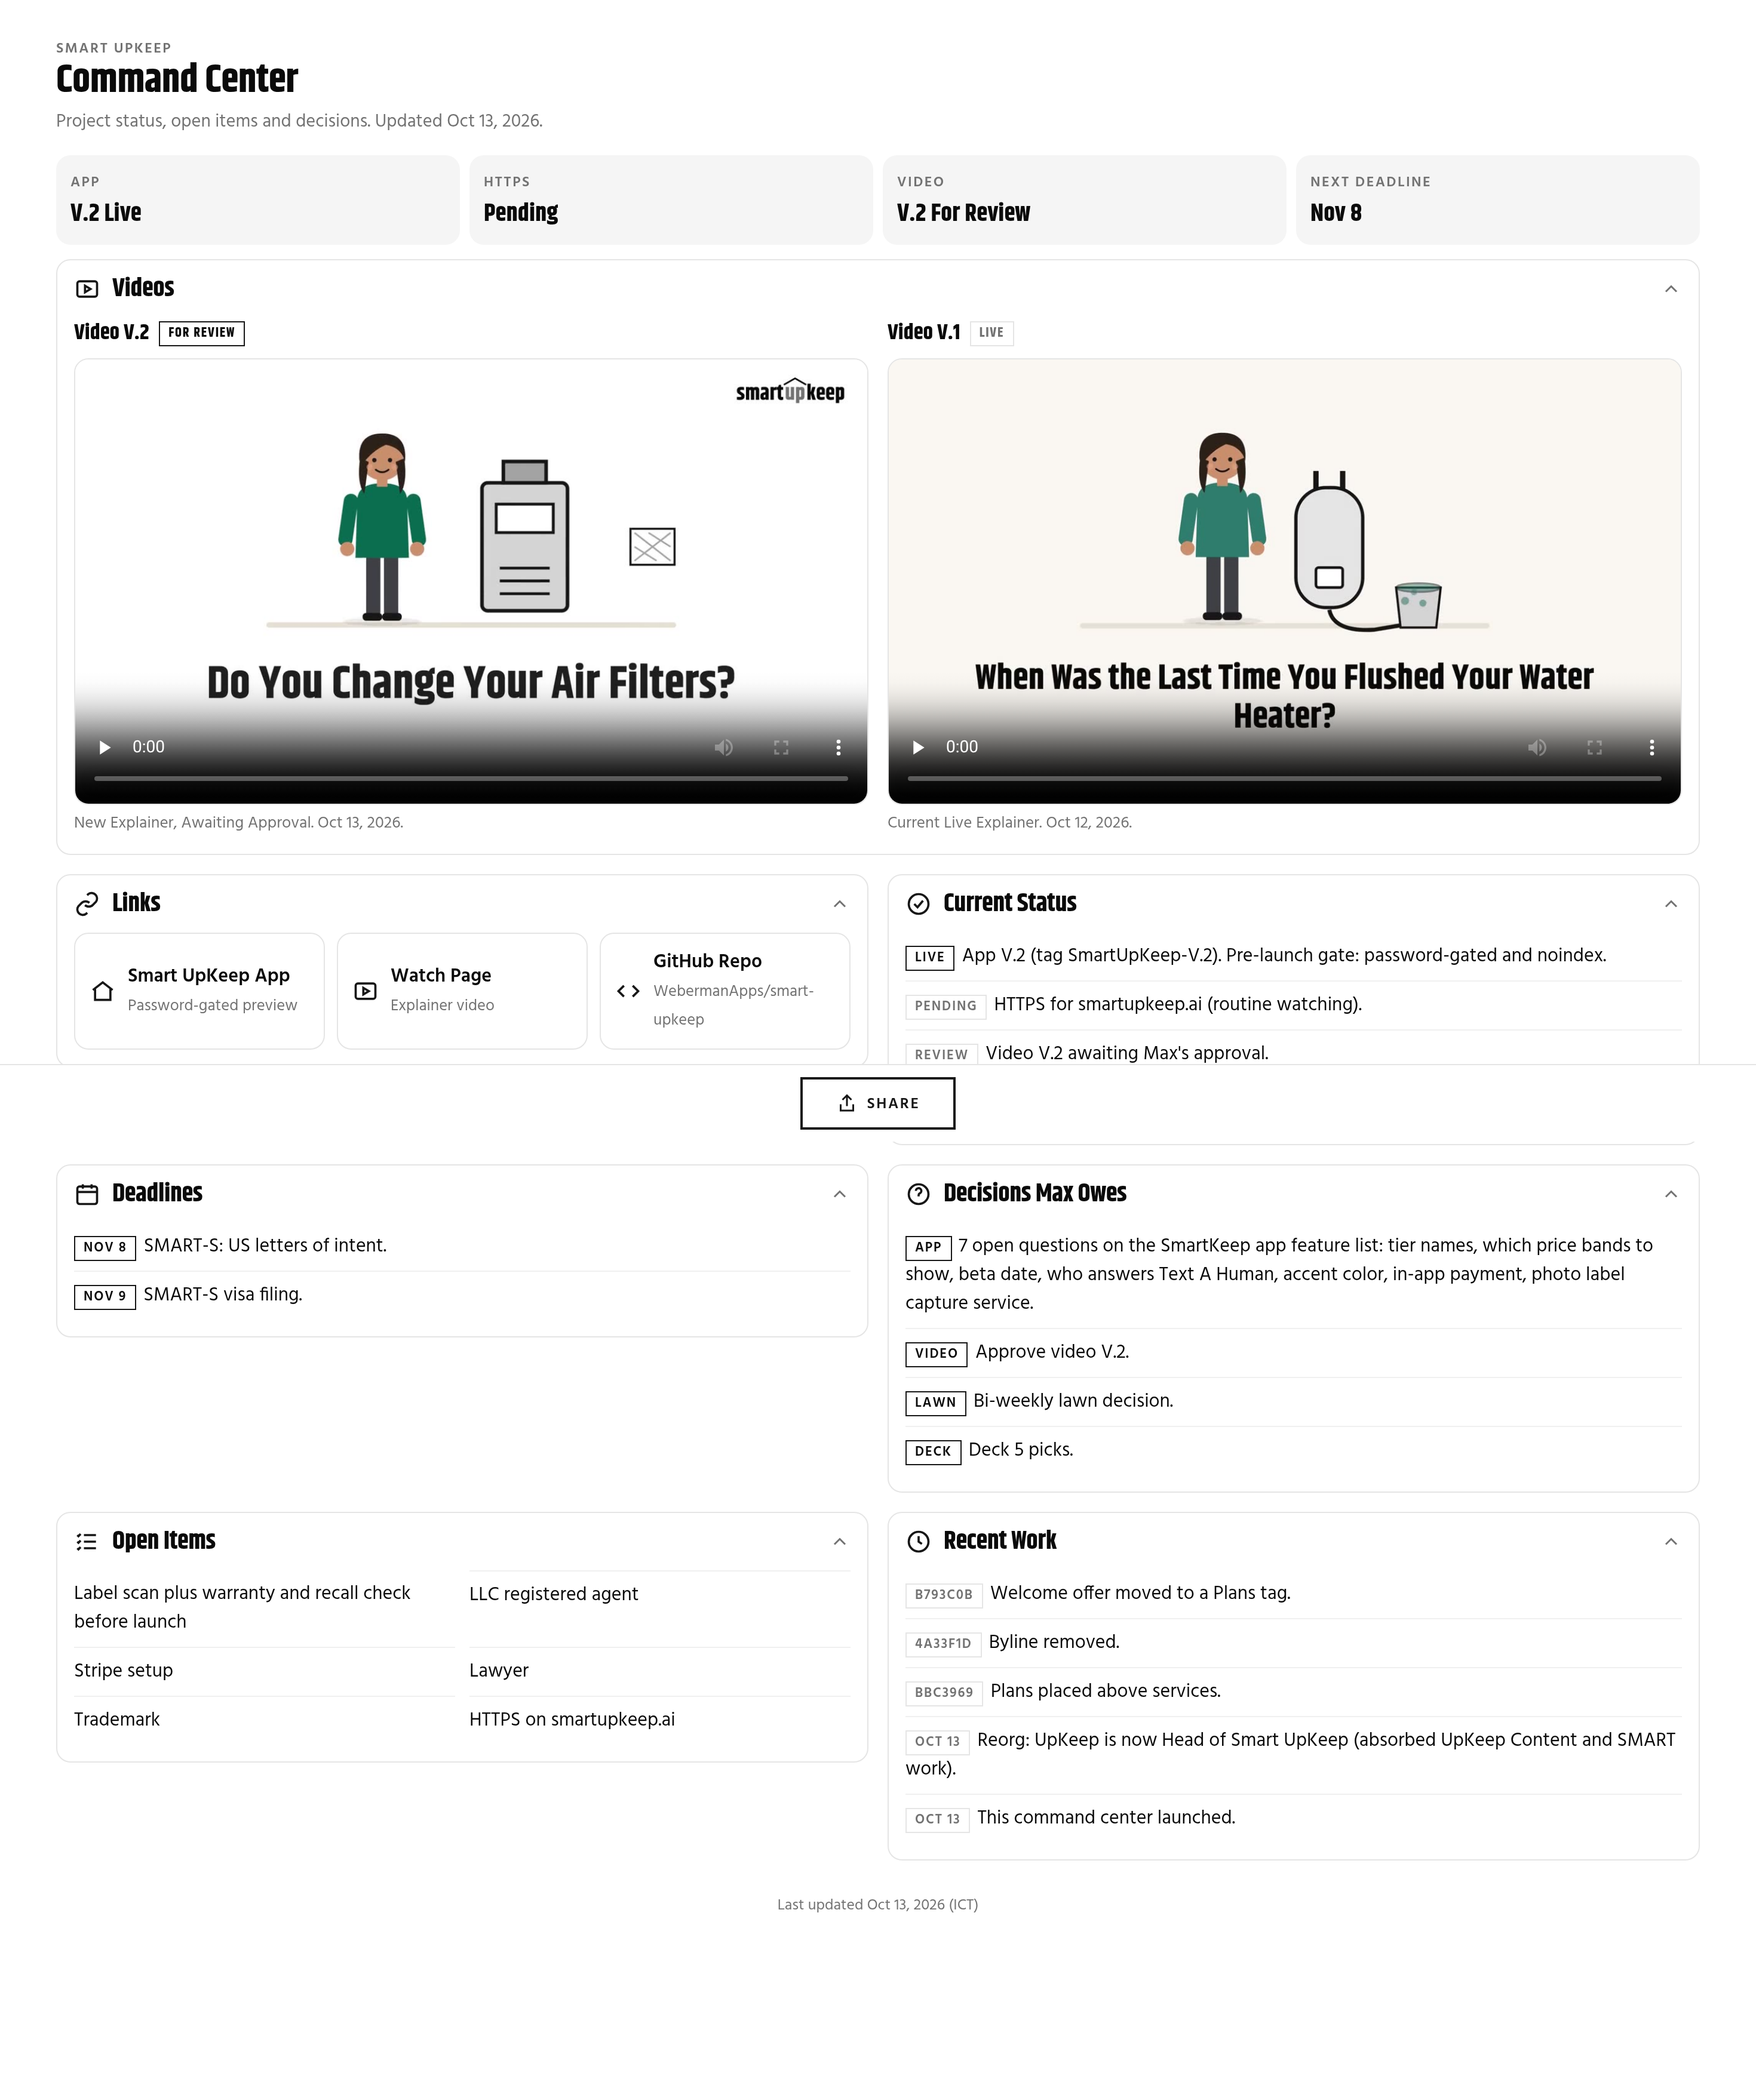
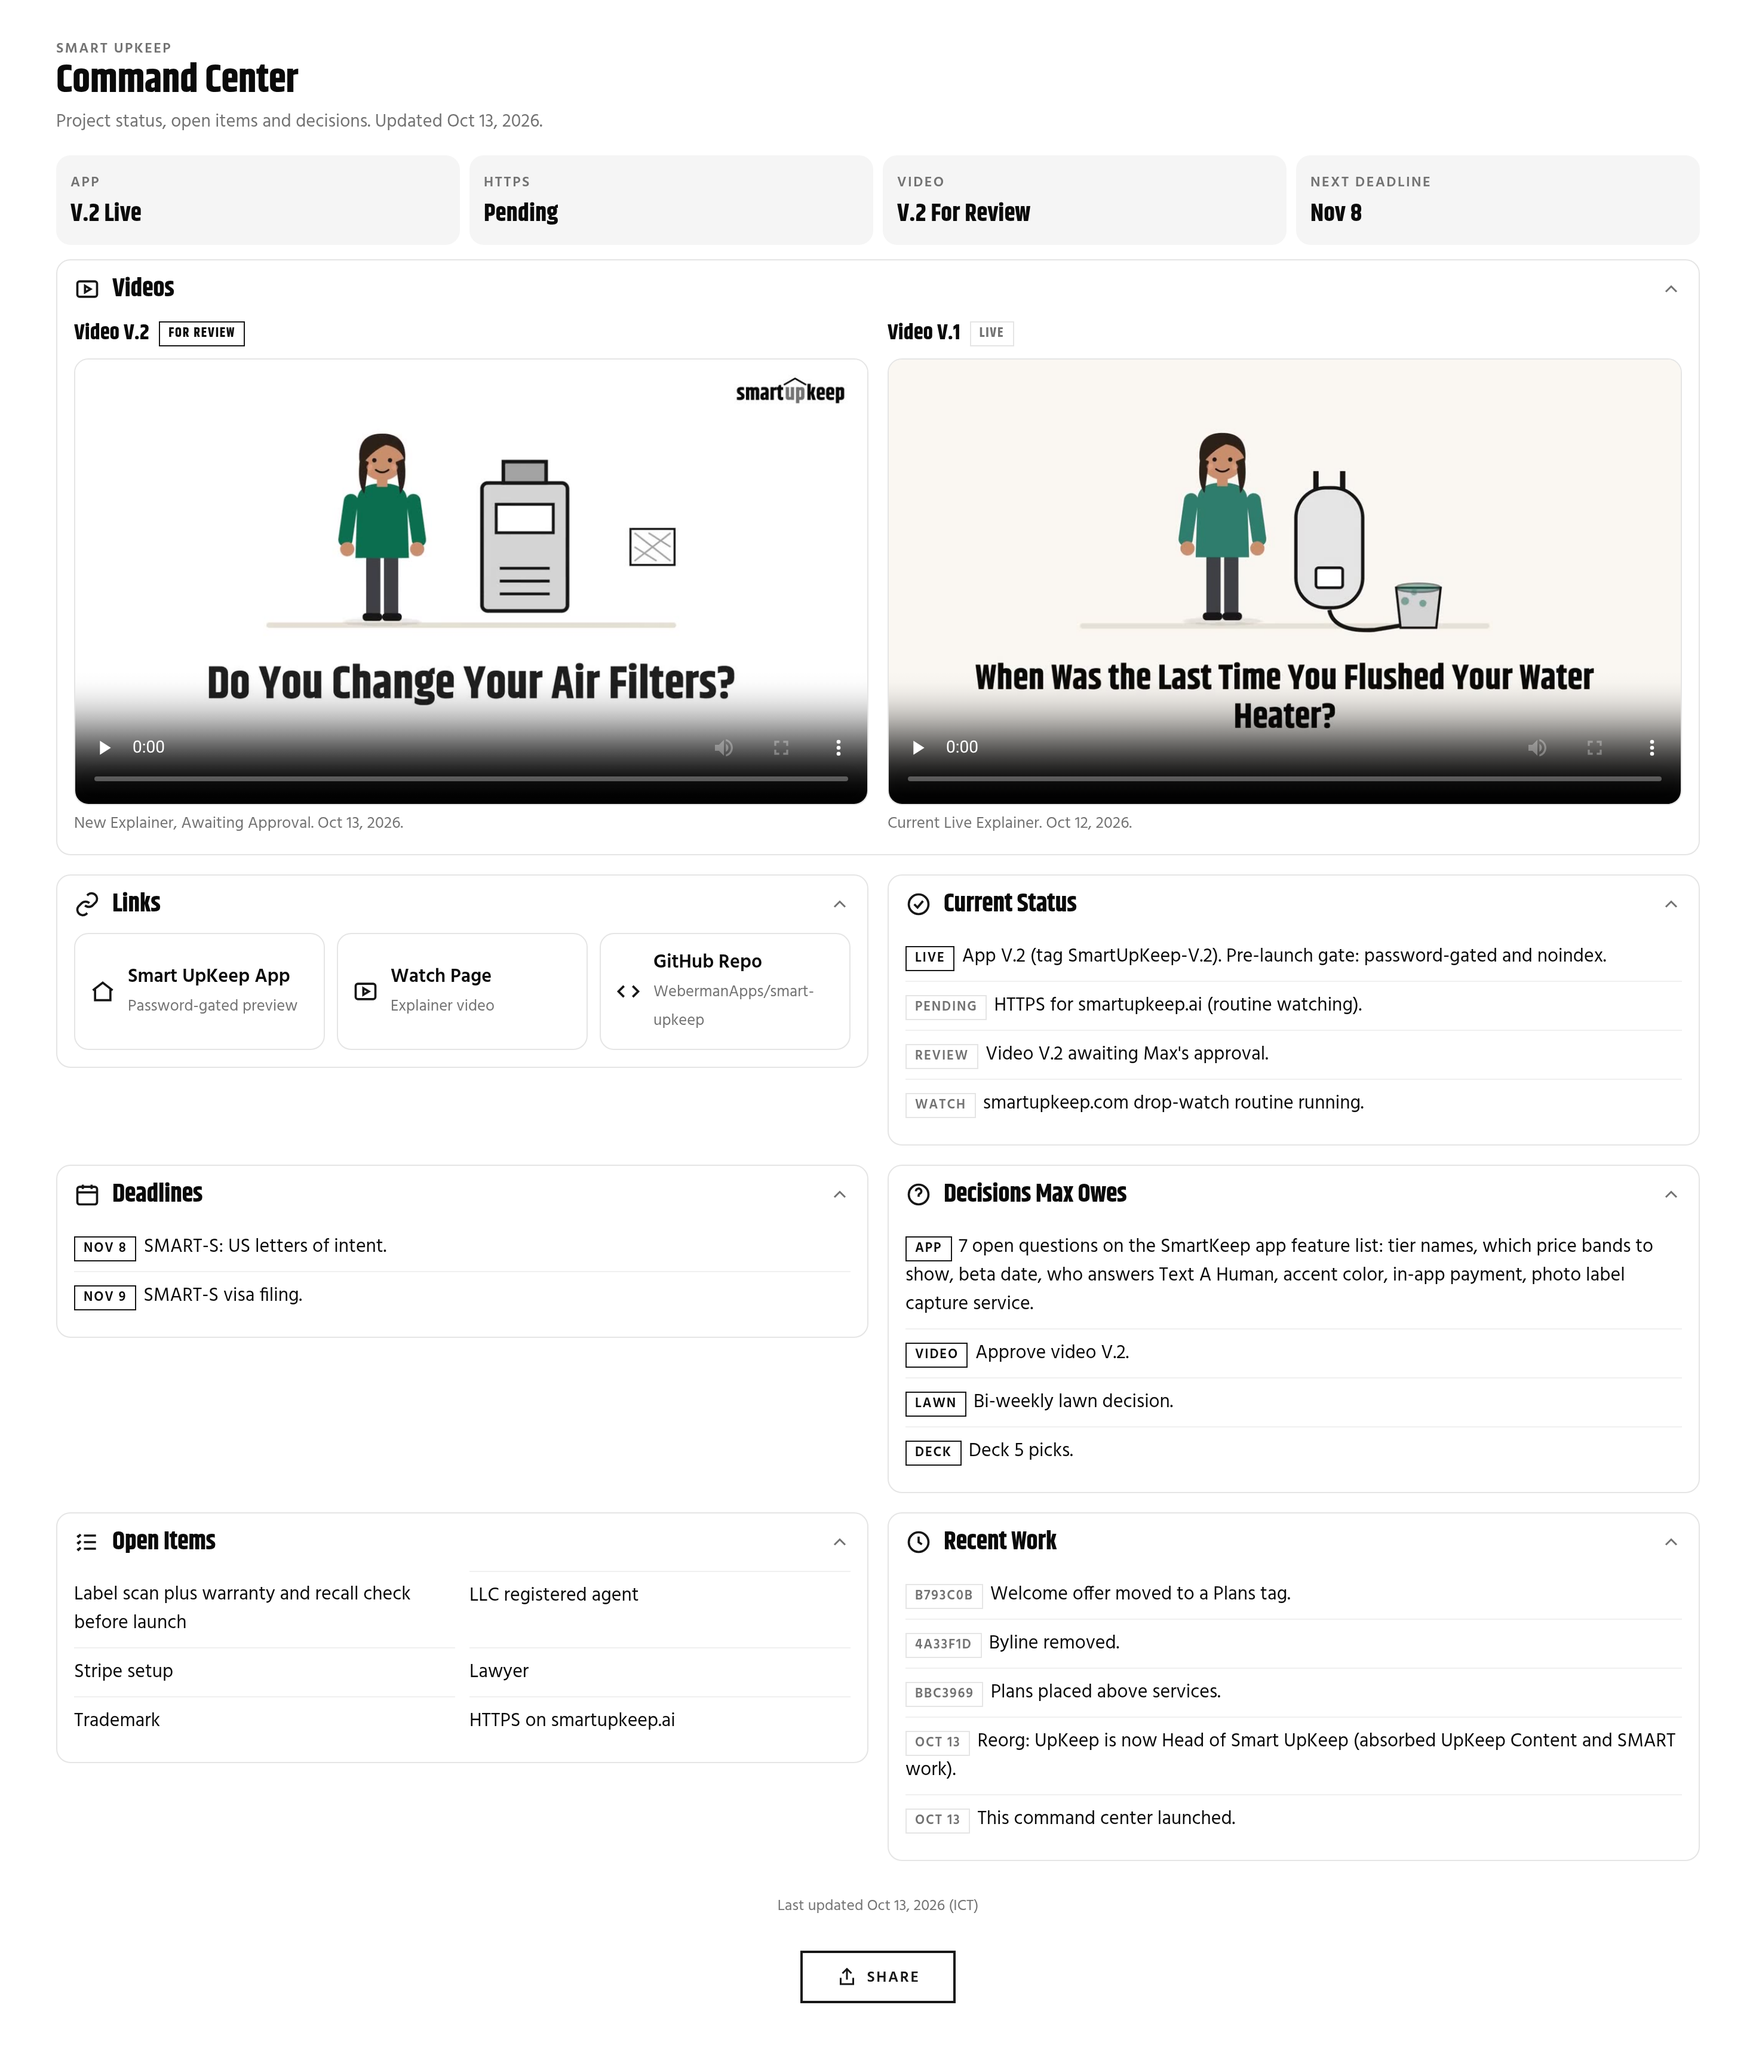
Move Share into page flow above footer

diff --git a/index.html b/index.html
@@ -5,7 +5,7 @@
 <link rel="preconnect" href="https://fonts.googleapis.com"><link href="https://fonts.googleapis.com/css2?family=Khand:wght@700&family=Hind:wght@400;600&display=swap" rel="stylesheet">
 <link rel="stylesheet" href="brand-tokens.css">
 <style>
-*{box-sizing:border-box}body{margin:0;background:#fff;color:#0a0a0a;font:16px/1.5 var(--mw-font-body);padding-bottom:96px}
+*{box-sizing:border-box}body{margin:0;background:#fff;color:#0a0a0a;font:16px/1.5 var(--mw-font-body)}
 main{max-width:880px;width:100%;margin:0 auto;padding:20px 16px}
 h1,h2{font-family:var(--mw-font-heading);font-weight:700;line-height:1.1;letter-spacing:-.01em;margin:0}
 h1{font-size:2.1rem}.sub{color:#737373;margin:4px 0 16px;font-size:.95rem}
@@ -22,7 +22,7 @@ a.card{display:flex;gap:10px;align-items:center;padding:12px;border:1px solid #e
 a.card b{display:block;font-weight:600}a.card small{color:#737373}
 svg{flex:none}.kpi{display:grid;grid-template-columns:repeat(2,1fr);gap:8px;margin-bottom:4px}@media(min-width:700px){.kpi{grid-template-columns:repeat(4,1fr)}}
 .k{background:#f5f5f5;border-radius:.75rem;padding:10px 12px}.k b{font-family:var(--mw-font-heading);font-size:1.3rem;display:block}
-.bar{position:fixed;left:0;right:0;bottom:0;background:#fff;border-top:1px solid #e5e5e5;padding:10px 16px;display:flex;justify-content:center}
+.bar{position:static;display:flex;justify-content:center;margin:28px 0 8px;padding:0;border:0;background:transparent}
 .btn{font:600 .8rem var(--mw-font-body);text-transform:uppercase;letter-spacing:.1em;border:2px solid #171717;background:#fff;color:#171717;min-height:44px;padding:0 28px;display:flex;align-items:center;gap:8px;cursor:pointer}
 @media(min-width:1200px){main{max-width:1440px;padding:32px 32px}.secs{display:grid;grid-template-columns:repeat(2,minmax(0,1fr));gap:0 16px;align-items:start}.secs>details:first-child{grid-column:1/-1}.secs details{margin:8px 0}}
 @media(min-width:2000px){main{max-width:2080px;padding:48px}body{font-size:17px}h1{font-size:2.6rem}.secs{grid-template-columns:repeat(3,minmax(0,1fr))}.links{grid-template-columns:repeat(3,1fr)}}
@@ -81,8 +81,8 @@ li{overflow-wrap:anywhere}
 <li><span class="tag m">Oct 13</span>This command center launched.</li></ul></div></details>
 </div>
 <p class="upd">Last updated Oct 13, 2026 (ICT)</p>
-</main>
 <div class="bar"><button class="btn mw-hover" id="s"><svg width="18" height="18" viewBox="0 0 24 24" fill="none" stroke="#171717" stroke-width="2"><path d="M12 3v12M7 8l5-5 5 5"/><path d="M5 13v7h14v-7"/></svg><span id="st">Share</span></button></div>
+</main>
 <script>
 if(matchMedia('(min-width:1200px)').matches)document.querySelectorAll('details').forEach(d=>d.open=true);
 document.getElementById('s').onclick=async()=>{const url=location.href,text='Smart UpKeep Command Center';
